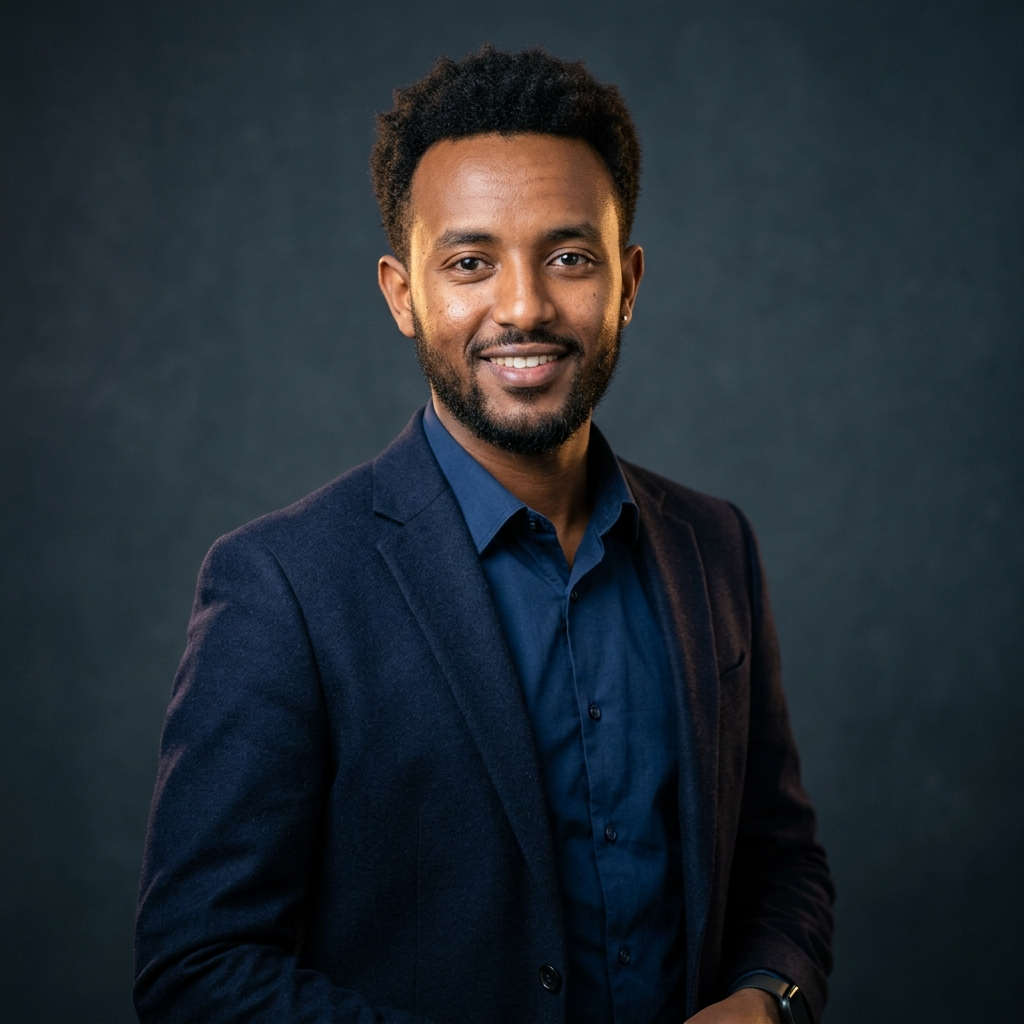
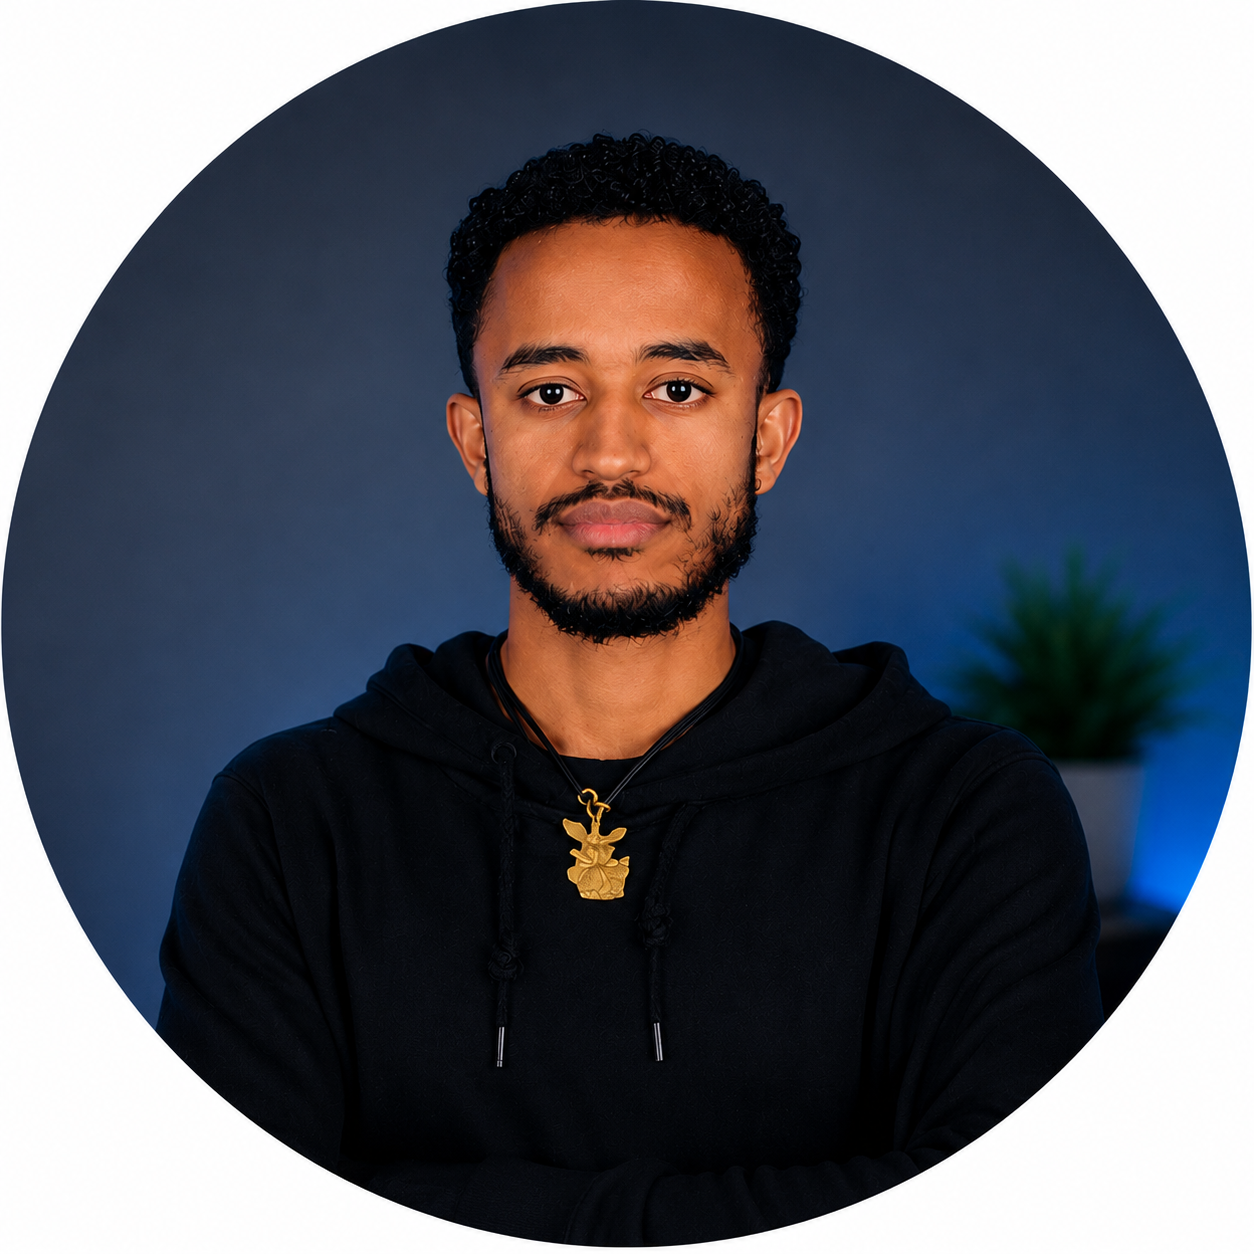
fix: replace default fallback photo with Tadese's actual photo and initialize state without flickering

diff --git a/frontend/src/pages/Home.tsx b/frontend/src/pages/Home.tsx
@@ -81,7 +81,7 @@ const Home: React.FC = () => {
     githubRepos: 0
   });
 
-  const [profileImage, setProfileImage] = useState<string | null>(null);
+  const [profileImage, setProfileImage] = useState<string | null>('/profile.jpg');
   const [cvUrl, setCvUrl] = useState<string | null>(null);
   const [imageError, setImageError] = useState(false);
 

diff --git a/backend/portfolio/apps/resume/management/commands/seed_data.py b/backend/portfolio/apps/resume/management/commands/seed_data.py
@@ -34,6 +34,7 @@ class Command(BaseCommand):
                     "Seeking global scholarships in AI and Data Science to deepen expertise in machine "
                     "learning, neural networks, and distributed computing."
                 ),
+                'profile_image_url': "https://cdn.jsdelivr.net/gh/TADESE23/my-portfolio-website@main/frontend/public/profile.jpg",
                 'email': "tadesemesfin23@gmail.com",
                 'phone': "+251900000000",
                 'location': "Addis Ababa, Ethiopia",
